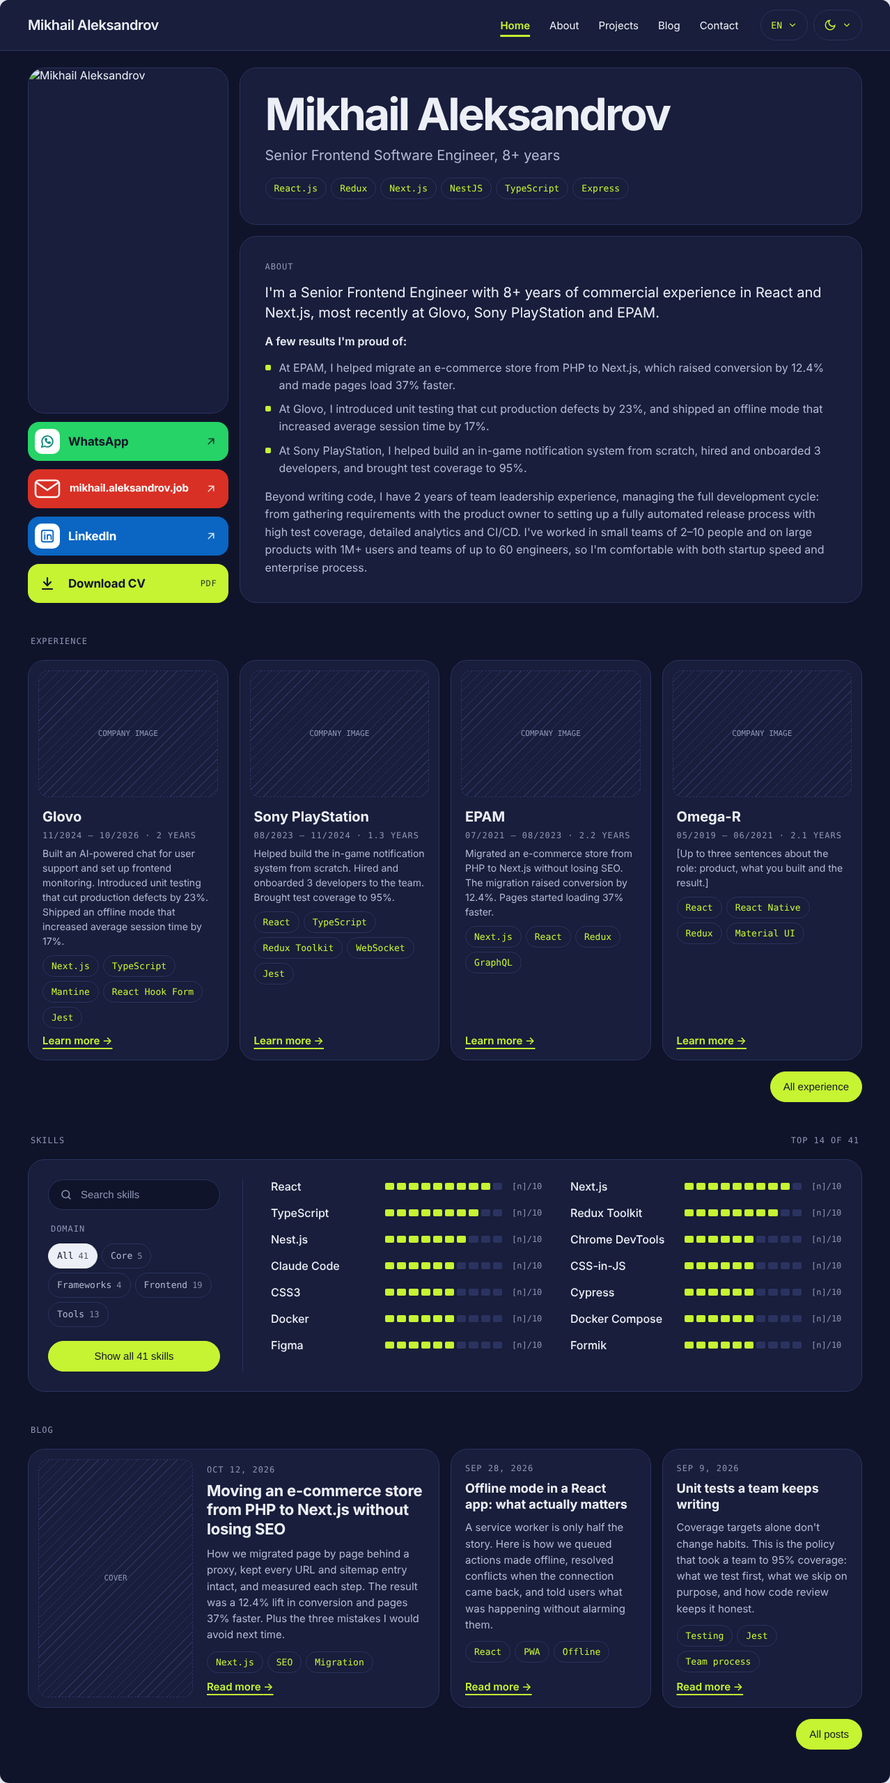
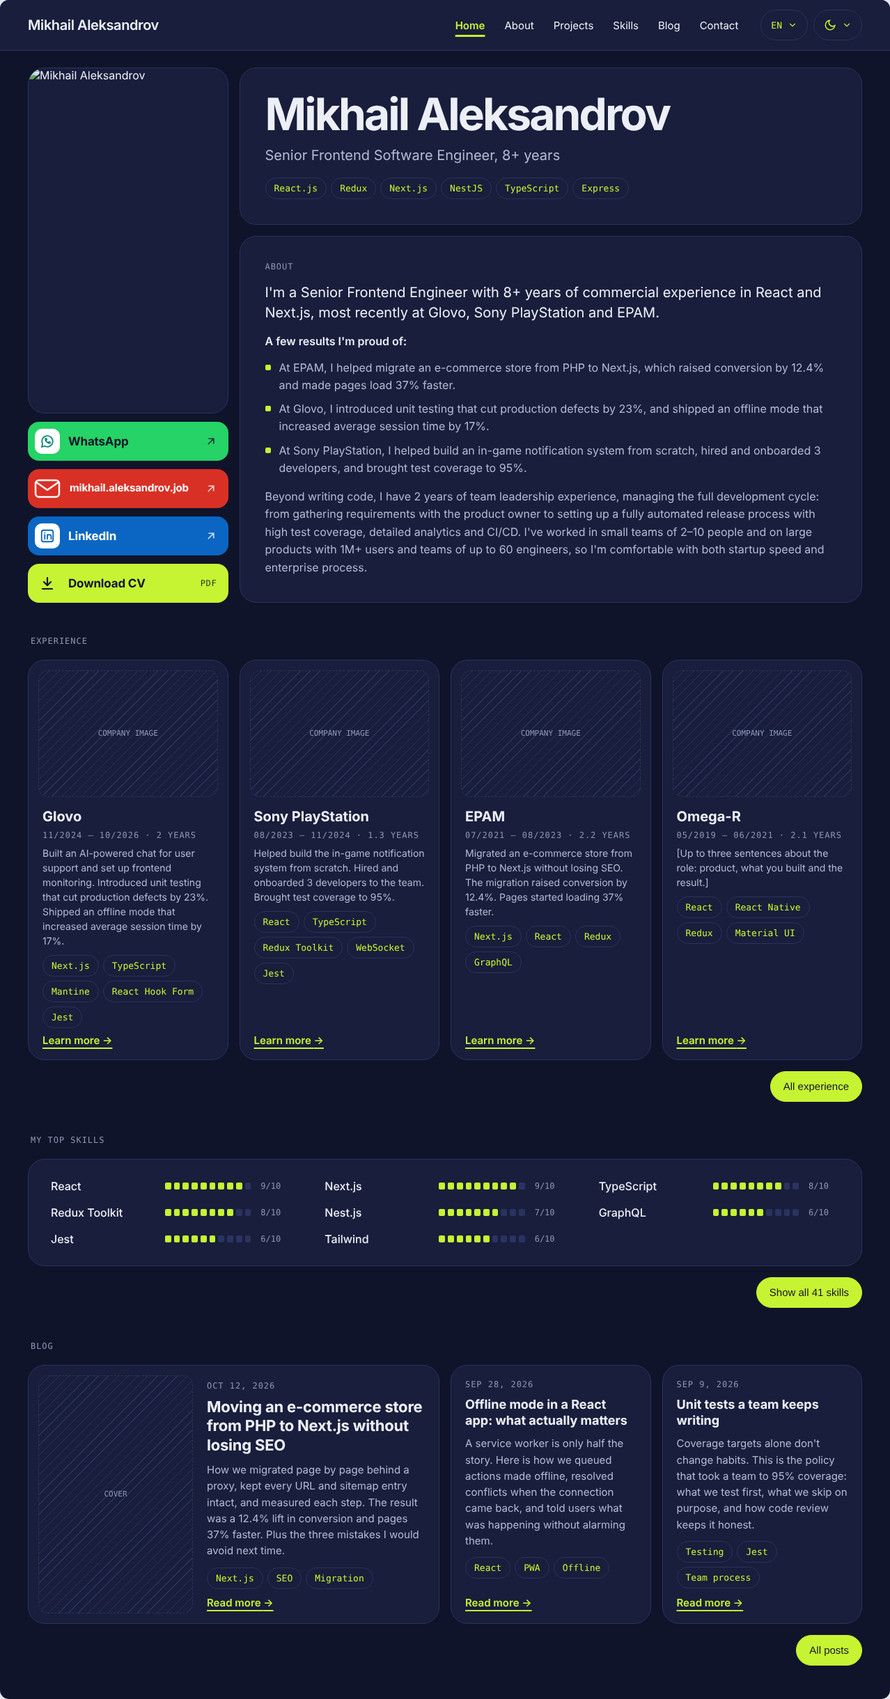
Update home page design

diff --git a/docs/design/home/prototype.dc.html b/docs/design/home/prototype.dc.html
@@ -173,14 +173,11 @@ nav a.on{color:var(--accent);font-weight:600;text-decoration:underline;text-deco
 </div></div>
 <a class="btn pri" href="#" style="grid-column: span 2">All experience</a>
 
-<div class="sec" style="grid-column: span 2"><span class="lbl">Skills</span><span class="lbl">{{skillCount}}</span></div>
+<div class="sec" style="grid-column: span 2"><span class="lbl">My top skills</span></div>
 <div class="t rv" style="grid-column: span 2; padding: 20px; gap: 14px">
-<label class="search"><svg width="18" height="18" viewBox="0 0 24 24" fill="none" stroke="currentColor" stroke-width="2" stroke-linecap="round" aria-hidden="true"><circle cx="11" cy="11" r="7"></circle><path d="m20 20-3.5-3.5"></path></svg><span class="sr">Search skills</span><input type="search" placeholder="Search skills" value="{{q}}" onChange="{{onSearch}}"></label>
-<div style="display: flex; gap: 6px; flex-wrap: wrap"><sc-for list="{{cats}}" as="k" hint-placeholder-count="5"><button class="{{k.cls}}" onClick="{{k.pick}}">{{k.name}}<span class="cnt">{{k.count}}</span></button></sc-for></div>
-<sc-for list="{{skills}}" as="s" hint-placeholder-count="5"><div style="display: flex; flex-direction: column; gap: 6px"><div style="display: flex; justify-content: space-between; font-size: 15px"><span style="font-weight: 500">{{s.name}}</span><span style="font-family: 'Geist Mono', monospace; font-size: 12px; color: var(--mute)">[n]/10</span></div><div class="seg"><sc-for list="{{s.segs}}" as="g" hint-placeholder-count="10"><i class="{{g.cls}}"></i></sc-for></div></div></sc-for>
-<sc-if value="{{noMatch}}" hint-placeholder-val="{{false}}"><p style="margin: 0; font-size: 15px; color: var(--ink2)">No skills match “{{q}}”.</p></sc-if>
-<sc-if value="{{showToggle}}" hint-placeholder-val="{{true}}"><button class="btn pri" onClick="{{toggleAll}}">{{allLabel}}</button></sc-if>
+<sc-for list="{{skills}}" as="s" hint-placeholder-count="5"><div style="display: flex; flex-direction: column; gap: 6px"><div style="display: flex; justify-content: space-between; font-size: 15px"><span style="font-weight: 500">{{s.name}}</span><span style="font-family: 'Geist Mono', monospace; font-size: 12px; color: var(--mute)">{{s.lv}}/10</span></div><div class="seg"><sc-for list="{{s.segs}}" as="g" hint-placeholder-count="10"><i class="{{g.cls}}"></i></sc-for></div></div></sc-for>
 </div>
+<a class="btn pri" href="#" style="grid-column: span 2">{{allLabel}}</a>
 
 <div class="sec" style="grid-column: span 2"><span class="lbl">Blog</span></div>
 <div class="sw rv" style="grid-column: span 2"><div class="swnav"><span class="lbl">{{postPos}}</span><span style="display: flex; gap: 8px"><button class="{{postPrevCls}}" aria-label="Previous" onClick="{{postPrev}}"><svg width="18" height="18" viewBox="0 0 24 24" fill="none" stroke="currentColor" stroke-width="2" stroke-linecap="round" stroke-linejoin="round" aria-hidden="true"><path d="M15 6l-6 6 6 6"></path></svg></button><button class="{{postNextCls}}" aria-label="Next" onClick="{{postNext}}"><svg width="18" height="18" viewBox="0 0 24 24" fill="none" stroke="currentColor" stroke-width="2" stroke-linecap="round" stroke-linejoin="round" aria-hidden="true"><path d="M9 6l6 6-6 6"></path></svg></button></span></div><div class="trk" ref="{{setPostTrk}}">
@@ -202,7 +199,7 @@ nav a.on{color:var(--accent);font-weight:600;text-decoration:underline;text-deco
 <header style="position: sticky; top: 0; z-index: 10; background: var(--tile); border-bottom: 1px solid var(--tile-line)">
 <div style="max-width: 1200px; margin: 0 auto; padding: 0 40px; height: 72px; display: flex; align-items: center; gap: 32px">
 <a href="#" style="flex-grow: 1; font-size: 20px; font-weight: 600; letter-spacing: -.02em; text-decoration: none; white-space: nowrap">Mikhail Aleksandrov</a>
-<nav style="display: flex; gap: 28px; font-size: 15px"><a href="#" class="on">Home</a><a href="#">About</a><a href="#">Projects</a><a href="#">Blog</a><a href="#">Contact</a></nav>
+<nav style="display: flex; gap: 28px; font-size: 15px"><a href="#" class="on">Home</a><a href="#">About</a><a href="#">Projects</a><a href="#">Skills</a><a href="#">Blog</a><a href="#">Contact</a></nav>
 <div style="display: flex; gap: 8px">
 <span class="dd"><button class="btn acc" style="padding: 0 14px; font-family: 'Geist Mono', monospace; font-size: 13px" aria-label="Language" aria-haspopup="menu" onClick="{{openLang}}">{{langCode}}<svg width="14" height="14" viewBox="0 0 24 24" fill="none" stroke="currentColor" stroke-width="2" stroke-linecap="round" aria-hidden="true"><path d="m6 9 6 6 6-6"></path></svg></button><sc-if value="{{langOpen}}" hint-placeholder-val="{{false}}"><div class="ddbg" onClick="{{closeMenu}}"></div><div class="ddm" role="menu"><sc-for list="{{langOpts}}" as="o" hint-placeholder-count="3"><button class="{{o.cls}}" role="menuitemradio" onClick="{{o.pick}}"><span>{{o.label}}</span><span class="ddx">{{o.hint}}</span><svg class="ck" width="16" height="16" viewBox="0 0 24 24" fill="none" stroke="currentColor" stroke-width="2.4" stroke-linecap="round" stroke-linejoin="round" aria-hidden="true"><path d="M5 12l5 5 9-10"></path></svg></button></sc-for></div></sc-if></span>
 <span class="dd"><button class="btn acc" style="padding: 0 14px" onClick="{{openTheme}}" aria-label="Theme" aria-haspopup="menu"><sc-if value="{{isDark}}" hint-placeholder-val="{{true}}"><svg width="18" height="18" viewBox="0 0 24 24" fill="none" stroke="currentColor" stroke-width="2" stroke-linecap="round" aria-hidden="true"><path d="M21 12.8A9 9 0 1 1 11.2 3a7 7 0 0 0 9.8 9.8z"></path></svg></sc-if><sc-if value="{{isLight}}" hint-placeholder-val="{{false}}"><svg width="18" height="18" viewBox="0 0 24 24" fill="none" stroke="currentColor" stroke-width="2" stroke-linecap="round" aria-hidden="true"><circle cx="12" cy="12" r="4"></circle><path d="M12 2v2M12 20v2M4.9 4.9l1.4 1.4M17.7 17.7l1.4 1.4M2 12h2M20 12h2M4.9 19.1l1.4-1.4M17.7 6.3l1.4-1.4"></path></svg></sc-if><svg width="14" height="14" viewBox="0 0 24 24" fill="none" stroke="currentColor" stroke-width="2" stroke-linecap="round" aria-hidden="true"><path d="m6 9 6 6 6-6"></path></svg></button><sc-if value="{{themeOpen}}" hint-placeholder-val="{{false}}"><div class="ddbg" onClick="{{closeMenu}}"></div><div class="ddm" role="menu"><sc-for list="{{themeOpts}}" as="o" hint-placeholder-count="3"><button class="{{o.cls}}" role="menuitemradio" onClick="{{o.pick}}"><span>{{o.label}}</span><span class="ddx">{{o.hint}}</span><svg class="ck" width="16" height="16" viewBox="0 0 24 24" fill="none" stroke="currentColor" stroke-width="2.4" stroke-linecap="round" stroke-linejoin="round" aria-hidden="true"><path d="M5 12l5 5 9-10"></path></svg></button></sc-for></div></sc-if></span>
@@ -248,21 +245,13 @@ nav a.on{color:var(--accent);font-weight:600;text-decoration:underline;text-deco
 </div>
 <div style="display: flex; justify-content: flex-end"><a class="btn pri" href="#">All experience</a></div>
 
-<div class="sec"><span class="lbl">Skills</span><span class="lbl">{{skillCount}}</span></div>
-<div class="t rv" style="padding: 28px; display: grid; grid-template-columns: 280px minmax(0, 1fr); gap: 40px; align-items: start">
-<aside style="display: flex; flex-direction: column; gap: 14px; padding-right: 32px; border-right: 1px solid var(--tile-line); min-height: 100%">
-<label class="search"><svg width="18" height="18" viewBox="0 0 24 24" fill="none" stroke="currentColor" stroke-width="2" stroke-linecap="round" aria-hidden="true"><circle cx="11" cy="11" r="7"></circle><path d="m20 20-3.5-3.5"></path></svg><span class="sr">Search skills</span><input type="search" placeholder="Search skills" value="{{q}}" onChange="{{onSearch}}"></label>
-<span class="lbl" style="padding: 6px 4px 0">Domain</span>
-<div style="display: flex; gap: 6px; flex-wrap: wrap"><sc-for list="{{cats}}" as="k" hint-placeholder-count="5"><button class="{{k.cls}}" onClick="{{k.pick}}">{{k.name}}<span class="cnt">{{k.count}}</span></button></sc-for></div>
-<sc-if value="{{showToggle}}" hint-placeholder-val="{{true}}"><button class="btn pri" style="margin-top: 6px" onClick="{{toggleAll}}">{{allLabel}}</button></sc-if>
-</aside>
-<div style="display: flex; flex-direction: column; gap: 16px; min-width: 0">
-<div style="display: grid; grid-template-columns: repeat(2, minmax(0, 1fr)); gap: 18px 40px">
-<sc-for list="{{skills}}" as="s" hint-placeholder-count="5"><div style="display: grid; grid-template-columns: 150px minmax(0, 1fr) 44px; gap: 14px; align-items: center"><span style="font-weight: 500">{{s.name}}</span><div class="seg"><sc-for list="{{s.segs}}" as="g" hint-placeholder-count="10"><i class="{{g.cls}}"></i></sc-for></div><span style="font-family: 'Geist Mono', monospace; font-size: 12px; color: var(--mute)">[n]/10</span></div></sc-for>
-</div>
-<sc-if value="{{noMatch}}" hint-placeholder-val="{{false}}"><p style="margin: 0; font-size: 16px; color: var(--ink2)">No skills match “{{q}}”.</p></sc-if>
+<div class="sec"><span class="lbl">My top skills</span></div>
+<div class="t rv" style="padding: 28px 32px">
+<div style="display: grid; grid-template-columns: repeat(auto-fill, minmax(320px, 1fr)); gap: 18px 48px">
+<sc-for list="{{skills}}" as="s" hint-placeholder-count="5"><div style="display: grid; grid-template-columns: 150px minmax(0, 1fr) 44px; gap: 14px; align-items: center"><span style="font-weight: 500">{{s.name}}</span><div class="seg"><sc-for list="{{s.segs}}" as="g" hint-placeholder-count="10"><i class="{{g.cls}}"></i></sc-for></div><span style="font-family: 'Geist Mono', monospace; font-size: 12px; color: var(--mute)">{{s.lv}}/10</span></div></sc-for>
 </div>
 </div>
+<div style="display: flex; justify-content: flex-end"><a class="btn pri" href="#">{{allLabel}}</a></div>
 
 <div class="sec"><span class="lbl">Blog</span></div>
 <div style="display: grid; grid-template-columns: repeat(4, minmax(0, 1fr)); gap: 16px">
@@ -360,7 +349,10 @@ class Component extends DCLogic {
     const filtered = q || cat !== 'All';
     const topN = s.device === 'desktop' ? 14 : 5;
     if (!filtered && !s.showAll) list = list.slice(0, topN);
-    const skills = list.map((x) => ({ name: x.name, segs: Array.from({ length: 10 }, (_, k) => ({ cls: k < x.lv ? 'on' : '' })) }));
+    // featured skills, marked in the main list (1–20 items)
+    const featured = ['React', 'Next.js', 'TypeScript', 'Redux Toolkit', 'Nest.js', 'GraphQL', 'Jest', 'Tailwind'];
+    list = all.filter((x) => featured.indexOf(x.name) >= 0);
+    const skills = list.map((x) => ({ name: x.name, lv: x.lv, segs: Array.from({ length: 10 }, (_, k) => ({ cls: k < x.lv ? 'on' : '' })) }));
     const cats = ['All', 'Core', 'Frameworks', 'Frontend', 'Tools'].map((name) => ({ name, cls: name === cat ? 'chip on' : 'chip', fcls: name === cat ? 'fl on' : 'fl', count: name === 'All' ? all.length : D[name].length, pick: () => this.setState({ cat: name }) }));
     return {
       t: T[s.theme],
@@ -370,7 +362,7 @@ class Component extends DCLogic {
       onSearch: (e) => this.setState({ q: e.target.value }),
       noMatch: list.length === 0,
       showToggle: !filtered,
-      allLabel: s.showAll ? 'Show top ' + topN : 'Show all 41 skills',
+      allLabel: 'Show all ' + all.length + ' skills',
       toggleAll: () => this.setState({ showAll: !s.showAll }),
       skillCount: filtered ? list.length + ' of 41' : (s.showAll ? '41 skills' : 'Top ' + topN + ' of 41'),
       setExpTrk: this.setExpTrk,

diff --git a/docs/design/home/content.ts b/docs/design/home/content.ts
@@ -16,6 +16,8 @@ export type Skill = {
   level: number;
   /** lower = shown first among equal levels */
   sort: number;
+  /** shown in "My top skills" on the home page (1–20 skills are marked) */
+  featured: boolean;
 };
 
 export type Experience = {
@@ -76,7 +78,7 @@ export const experience: Experience[] = [
       "Built an AI-powered chat for user support and set up frontend monitoring. Introduced unit testing that cut production defects by 23%. Shipped an offline mode that increased average session time by 17%.",
     tags: ["Next.js", "TypeScript", "Mantine", "React Hook Form", "Jest"], // TODO(owner): confirm
     image: null,
-    href: "/about#glovo",
+    href: "/projects#glovo",
   },
   {
     company: "Sony PlayStation",
@@ -86,7 +88,7 @@ export const experience: Experience[] = [
       "Helped build the in-game notification system from scratch. Hired and onboarded 3 developers to the team. Brought test coverage to 95%.",
     tags: ["React", "TypeScript", "Redux Toolkit", "WebSocket", "Jest"], // TODO(owner): confirm
     image: null,
-    href: "/about#sony",
+    href: "/projects#sony",
   },
   {
     company: "EPAM",
@@ -96,7 +98,7 @@ export const experience: Experience[] = [
       "Migrated an e-commerce store from PHP to Next.js without losing SEO. The migration raised conversion by 12.4%. Pages started loading 37% faster.",
     tags: ["Next.js", "React", "Redux", "GraphQL"], // TODO(owner): confirm
     image: null,
-    href: "/about#epam",
+    href: "/projects#epam",
   },
   {
     company: "Omega-R",
@@ -105,7 +107,7 @@ export const experience: Experience[] = [
     description: "TODO(owner): up to three sentences about the role: product, what you built and the result.",
     tags: ["React", "React Native", "Redux", "Material UI"], // TODO(owner): confirm
     image: null,
-    href: "/about#omega-r",
+    href: "/projects#omega-r",
   },
 ];
 
@@ -164,12 +166,20 @@ const levels: Record<string, number> = {
 };
 const pinned = Object.keys(levels);
 
+/** Marked for the home page. TODO(owner): pick your own set (1–20). */
+const featured = ["React", "Next.js", "TypeScript", "Redux Toolkit", "Nest.js", "GraphQL", "Jest", "Tailwind"];
+
 export const skills: Skill[] = (Object.keys(byCategory) as SkillCategory[]).flatMap((category) =>
   byCategory[category].map((name) => ({
     name,
     category,
     level: levels[name] ?? 6,
     sort: pinned.includes(name) ? pinned.indexOf(name) : 100,
+    featured: featured.includes(name),
   })),
 );
 // 41 skills: core 5 · frameworks 4 · frontend 19 · tools 13
+
+export const topSkills = skills
+  .filter((s) => s.featured)
+  .sort((a, b) => b.level - a.level || a.sort - b.sort || a.name.localeCompare(b.name));

diff --git a/docs/design/Home Page Handoff.md b/docs/design/Home Page Handoff.md
@@ -1,7 +1,7 @@
 ---
 tags: [design, handoff, home]
 status: approved
-updated: 2026-10-28
+updated: 2026-10-31
 ---
 
 # Home Page Handoff
@@ -9,6 +9,12 @@ updated: 2026-10-28
 Approved design of the home page (`/[locale]`), ready to implement. Mobile-first, two themes, eight locales. The design was iterated in a Claude Design canvas; this note is the implementation contract.
 
 Related: [[Roadmap]], [[Rendering Strategy]], [[Localization]], [[Data Model]], [[ADR-0005 UI Library]].
+
+## Changes since 2026-10-28
+
+- The Skills block became **My top skills**: no search, filter or counter; it shows only skills marked `featured`; "Show all N skills" links to the new `/skills` page.
+- The nav gained **Skills** (between Projects and Blog).
+- Experience links now point to the Projects page: `/projects#<company>` and `/projects`.
 
 ## Files in `docs/design/home/`
 
@@ -28,7 +34,7 @@ This touches Roadmap stages 1 and 2. Suggested order, each step ending green (`l
 2. Header: sticky bar, nav, locale menu, theme menu, mobile menu trigger.
 3. Hero + photo + contacts + About (static, server components).
 4. Experience: desktop grid, mobile carousel.
-5. Skills explorer (client).
+5. Top skills block (static, server component).
 6. Blog preview: desktop grid, mobile carousel.
 7. Reveal animation, reduced-motion check, accessibility pass.
 8. i18n wiring (`[locale]` segment, `generateStaticParams`), locale switcher navigation.
@@ -45,11 +51,11 @@ Rendering: home is **static** per locale (see [[Rendering Strategy]]). Everythin
 
 - Surface `bg-card`, bottom border `card-border`. Height 64 px mobile, 72 px desktop. `position: sticky; top: 0`.
 - Left: full name "Mikhail Aleksandrov", 600 weight, 17 px mobile / 20 px desktop, links to `/[locale]`.
-- Desktop: nav Home · About · Projects · Blog · Contact (15 px, gap 28 px). Active item: `text-brand`, 600, underline in `deco`, 3 px thick, offset 8 px.
+- Desktop: nav Home · About · Projects · Skills · Blog · Contact (15 px, gap 28 px). Active item: `text-brand`, 600, underline in `deco`, 3 px thick, offset 8 px.
 - Right controls, all in `text-brand`:
   - **Locale menu.** Mobile: 44 px round icon button showing the code ("EN"). Desktop: pill button, code + chevron-down.
   - **Theme menu.** Mobile: 44 px round button. Desktop: pill, icon + chevron. The icon shows the *resolved* theme: moon for dark, sun for light.
-  - Mobile only: hamburger (44 px round, `text-foreground`). **The open menu was not designed** — use a shadcn Sheet from the right with the same nav items, active item styled as on desktop.
+  - Mobile only: hamburger (44 px round, `text-foreground`). **The open menu was not designed** — use a shadcn Sheet from the right with the same six nav items, active item styled as on desktop.
 - Menus (both): popover anchored bottom-right, 8 px gap, min-width 210 px, padding 6 px, radius 16 px, `bg-popover`, border `card-border`, soft shadow. Items 40 px tall, radius 10 px, hover `bg-accent`. Selected item: `text-brand` + check icon at the end.
   - Theme items: Dark, Light, System. System shows a mono hint "now dark/light" (`text-muted-foreground`, 11 px).
   - Locale items: native names (English, Русский, Português, Español, Deutsch, Français, 日本語, Polski) with the code as a mono hint.
@@ -59,9 +65,9 @@ Rendering: home is **static** per locale (see [[Rendering Strategy]]). Everythin
 
 ## Section order
 
-**Mobile:** hero → photo → contacts → About → Experience (carousel) → Skills → Blog (carousel) → footer.
+**Mobile:** hero → photo → contacts → About → Experience (carousel) → My top skills → Blog (carousel) → footer.
 
-**Desktop:** a 4-column row with the photo and contacts in column 1 and the hero plus About in columns 2–4. Below it: Experience (4 cards), Skills (full width), Blog (featured card spanning 2 columns plus 2 cards), footer.
+**Desktop:** a 4-column row with the photo and contacts in column 1 and the hero plus About in columns 2–4. Below it: Experience (4 cards), My top skills (full width), Blog (featured card spanning 2 columns plus 2 cards), footer.
 
 Section headers: a mono label (`Geist Mono`, 11 px mobile / 12 px desktop, uppercase, letter-spacing .08em, `text-muted-foreground`), with a count on the right where shown. Header padding is 12 px on top for mobile and 32 px for desktop.
 
@@ -109,29 +115,20 @@ Each button has an arrow-up-right icon on the right (CV: the "PDF" mark) and an 
   - 3–5 skill tags as chips;
   - "Learn more →" link at the bottom (`mt-auto`).
 - Link style, shared with "Read more →" in the blog: `text-brand`, 600 weight, underline in `deco`, 2 px thick, offset 5 px.
-- Desktop: a 4-column grid with equal-height cards, then a primary pill "All experience" aligned right below the grid.
+- Desktop: a 4-column grid with equal-height cards, then a primary pill "All experience" aligned right below the grid. "Learn more" links go to `/[locale]/projects#<company-id>` (the Projects page holds the full story of every job); "All experience" goes to `/[locale]/projects`.
 - Mobile: a **carousel** (see below), then a full-width primary pill "All experience". The section header has no link.
 
-### Skills (client component `SkillsExplorer`)
+### My top skills (static)
 
-- Data comes from `skills` (41 items).
-  - Default order: level descending, then the `sort` order, then name.
-  - Default view shows the top 5 on mobile and the top 14 on desktop (two full columns of 7).
-  - Header count reads "Top 5 of 41" or "Top 14 of 41"; "41 skills" when expanded; "N of 41" when filtered.
-- Controls:
-  - Search: pill input with a search icon, 44 px, `bg-background`, border `card-border`. Focus ring: `brand` border plus a 3 px glow at 25%. Visually hidden label "Search skills". Matching is a case-insensitive substring.
-  - Domain chips: All · Core · Frameworks · Frontend · Tools, each followed by its count in mono at 70% opacity ("All 41", "Core 5", …). It is a single-select toggle group; use the Base UI toggle group from shadcn. Chips are pills, 36 px tall, wrapping onto new lines. The active chip uses `bg-selected text-selected-foreground`.
-  - Toggle: a primary pill "Show all 41 skills" / "Show top N", hidden while a search or domain filter is active.
-  - Empty state: "No skills match “{query}”."
-- Skill row:
-  - name: 500 weight;
-  - 10-segment bar: segments filled up to the level in `brand`, the rest in `placeholder`; 8 px tall with 3 px gaps on mobile, 10 px tall with 4 px gaps on desktop;
-  - mono "n/10" in `muted-foreground`;
-  - `role="meter"` with `aria-valuenow`, or an `aria-label` from messages.
-- Mobile layout: one tile containing the search, then the chips, then rows (name and value on one line, the bar below), then the toggle.
-- Desktop layout: one tile, padding 28 px, grid `280px | 1fr`, gap 40 px.
-  - Left: the search, a "Domain" label, the chips (wrapping), the toggle. A 1 px `card-border` divider separates it from the right side.
-  - Right: rows in two columns, gap 18 × 40 px. Each row is a grid `150px | 1fr | 44px`.
+A short list of skills marked `featured` in the main skills list (1–20 items). No search, no domain filter and no "Top N of M" counter on the home page: the full explorer lives on the separate `/skills` page (designed separately).
+
+- Section header: the mono label "My top skills", no count on the right.
+- Data: `topSkills` from `content.ts` (skills with `featured: true`, sorted by level desc, then `sort`, then name). Later: a `featured boolean` column on `skills`.
+- One tile.
+  - Mobile: one column; each row has the name (500 weight) and a mono "n/10" on one line, with the 10-segment bar below (8 px tall, 3 px gaps).
+  - Desktop: padding 28 × 32 px; grid `repeat(auto-fill, minmax(320px, 1fr))` with gaps of 18 × 48 px, so 1–2 skills fill one row and 20 spread over three columns. Each row is a grid `150px | 1fr | 44px`: name, bar (10 px tall, 4 px gaps), "n/10".
+- Bar segments are filled in `brand` up to the level; the rest use `placeholder`. Each row has `role="meter"` with `aria-valuenow` or an `aria-label` from messages.
+- Button below the tile: a primary pill reading "Show all {total} skills", where the total is counted from the full list. It is a link to `/[locale]/skills`. Desktop: right-aligned, like "All experience". Mobile: full width.
 
 ### Blog preview
 
@@ -173,7 +170,7 @@ Each button has an arrow-up-right icon on the right (CV: the "PDF" mark) and an 
 
 ## Accessibility checklist
 
-- Touch targets ≥ 44 px (all buttons, chips 36 px tall inside a tile are acceptable with 6 px gaps).
+- Touch targets ≥ 44 px for all buttons and carousel arrows.
 - Visible focus: `ring` color, 3 px.
 - Icon-only buttons have labels; decorative icons `aria-hidden`.
 - Contrast checked: `brand` on card is 6.7:1 in light and 12.7:1 in dark. Muted text is ≥ 5.5:1. Text on the contact buttons is ≥ 4.7:1. Yellow is never used for text.
@@ -185,13 +182,13 @@ Each button has an arrow-up-right icon on the right (CV: the "PDF" mark) and an 
 - The Data Model needs these additions; record them in [[Data Model]] when Stage 3 starts:
   - `experience`: `image`, a tag relation to `skills` (many-to-many), and `description` limited to 3 sentences (plain text is enough on the home page).
   - `posts`: `cover`, `tags` (a `tags` table plus `post_tags`).
-- Owner TODOs (marked in `content.ts`): the photo file, the CV PDF, the Omega-R description, the experience tag lists, real skill levels (currently only 5 are set; the rest are placeholder 6), and real posts.
+  - `skills`: `featured boolean default false` (drives "My top skills").
+- Owner TODOs (marked in `content.ts`): the photo file, the CV PDF, the Omega-R description, the experience tag lists, real skill levels (currently only 5 are set; the rest are placeholder 6), which skills are `featured`, and real posts.
 
 ## Open questions (add to [[Open Questions]])
 
 - The mobile menu (Sheet) contents and the tablet layout were not designed. Proposed defaults are above.
-- What the "Learn more" links on experience cards point to: an `/about` anchor or per-company pages?
-- Should the hero chips come from `skills` (top N) or stay a hand-picked list?
+- Should the hero chips come from `topSkills` or stay a hand-picked list?
 
 ## Kickoff prompt for the Claude Code session
 
